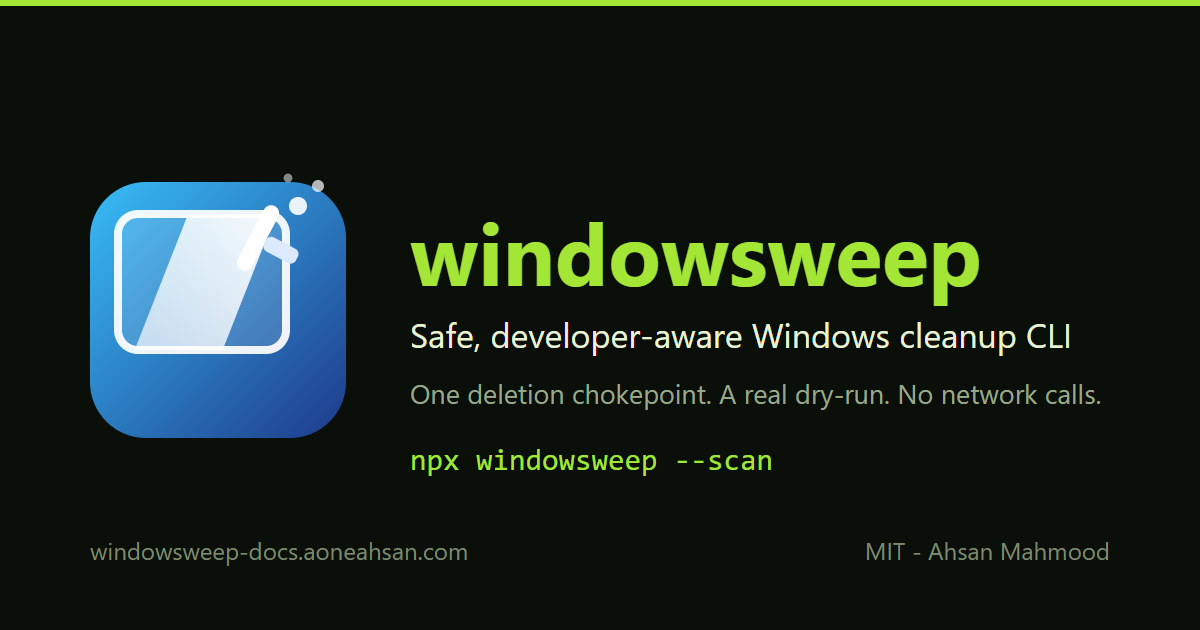
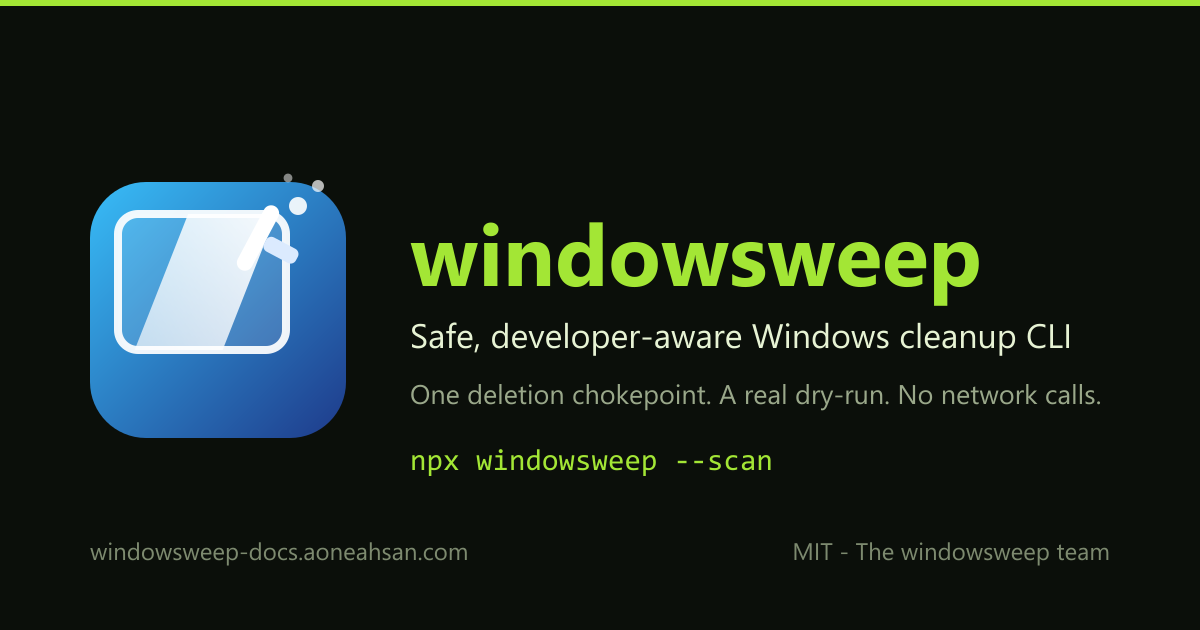
docs: the site speaks as the windowsweep team - the team page, its metadata and its card
The owner's fleet rule of 2026-09-25 (a product speaks as its team, never as
one person) and his decisions D45 and D46, applied through the story
pipeline (surface team-voice, rows 7 and 9; GATE 4 under the standing
pre-authorisation, after a fact-check PASS and zero open decisions):

- /about is the team page, re-mirrored byte for byte from
  windowsweep/docs/author.md below its front matter. It had been stale since
  row 7 was approved (b6bd940 never reached it), and it now also corrects row
  7's own "None of the three makes a network call": macleanup makes one when
  asked to check for an update.
- The footer's "Built by" column becomes "The windowsweep team" (About the
  team, Contact); the three structured-data nodes name that team as one
  Organization with the team page's URL; the author meta tags follow; the
  personal Twitter handles and both "By/Author:" byline sentences go.
- The intro's index rows, the social card and llms.txt say the same.

Kept (D45): the footer copyright, the LICENSE, the npm author field.
Gates: yarn typecheck, yarn build (no warnings, no broken links; /about has
one H1, no front-matter text).

diff --git a/docusaurus.config.ts b/docusaurus.config.ts
@@ -22,6 +22,16 @@ import type * as Preset from '@docusaurus/preset-classic';
 const SITE_URL = 'https://windowsweep-docs.aoneahsan.com';
 const TOOL_VERSION = '1.3.0';
 
+// The one agent this site's structured data names (team-voice TV-11, owner decisions D45 and
+// D46, 2026-09-25: a product speaks as its team, never as one person). Its name is the footer
+// column's title on every page and its url the team page, the same pair both llms.txt files
+// carry, so a machine reading any of them finds one entity.
+const TEAM = {
+  '@type': 'Organization',
+  name: 'The windowsweep team',
+  url: 'https://windowsweep-docs.aoneahsan.com/about',
+} as const;
+
 // Analytics are env-gated: an absent key means the provider is skipped
 // entirely, so a clone with no secrets still builds. Never inline a real key.
 const gaMeasurementId = process.env.GA_MEASUREMENT_ID?.trim();
@@ -75,19 +85,9 @@ const config: Config = {
         name: 'windowsweep Documentation',
         url: SITE_URL,
         description:
-          'Documentation for windowsweep, a Windows command-line utility that reclaims disk space by deleting only regenerable caches - package managers, build tools, browsers, editors, Windows temp and update leftovers - behind one deletion chokepoint that refuses personal folders, credentials and browser state. Author: Ahsan Mahmood.',
+          'Documentation for windowsweep, a Windows command-line utility that reclaims disk space by deleting only regenerable caches - package managers, build tools, browsers, editors, Windows temp and update leftovers - behind one deletion chokepoint that refuses personal folders, credentials and browser state.',
         inLanguage: 'en',
-        publisher: {
-          '@type': 'Person',
-          name: 'Ahsan Mahmood',
-          url: 'https://aoneahsan.com',
-          email: 'aoneahsan@gmail.com',
-          sameAs: [
-            'https://linkedin.com/in/aoneahsan',
-            'https://github.com/aoneahsan',
-            'https://www.npmjs.com/~aoneahsan',
-          ],
-        },
+        publisher: TEAM,
         license: 'https://opensource.org/licenses/MIT',
       }),
     },
@@ -102,11 +102,7 @@ const config: Config = {
         programmingLanguage: 'PowerShell',
         runtimePlatform: 'Windows PowerShell 5.1 or PowerShell 7 on Windows 10 and 11',
         license: 'https://opensource.org/licenses/MIT',
-        author: {
-          '@type': 'Person',
-          name: 'Ahsan Mahmood',
-          url: 'https://aoneahsan.com',
-        },
+        author: TEAM,
         description:
           'Windows PowerShell cleanup utility with a zero-dependency Node launcher. Prunes yarn/npm/pnpm/bun/deno/pip/NuGet/Cargo/Go caches, browser and editor caches, Docker layers, Android emulator images, Windows Update leftovers, stale node_modules and partial downloads — every deletion through one chokepoint with a declared root, an idle gate and a real dry-run.',
         keywords:
@@ -128,22 +124,18 @@ const config: Config = {
         // any surface. `isAccessibleForFree` is the same claim in another field and is
         // equally out. See docs/story/decision-log.md.
         url: 'https://www.npmjs.com/package/windowsweep',
-        author: {
-          '@type': 'Person',
-          name: 'Ahsan Mahmood',
-          url: 'https://aoneahsan.com',
-        },
+        author: TEAM,
         description:
           'Command-line disk and cache cleanup for Windows developers: a guided walkthrough, a read-only scan, a dry-run that writes nothing of yours, schema-versioned JSON reports, and one deletion chokepoint that refuses personal folders no matter what is typed.',
         softwareVersion: TOOL_VERSION,
         license: 'https://opensource.org/licenses/MIT',
       }),
     },
-    /* No `Organization` node, deliberately (removed 2026-09-13). One used to sit here naming
-       'Ahsan Mahmood' as an organisation with himself as founder - schema describing an entity
-       no page shows, the same finding the marketing site's structured data settled that day
-       (content-map row 19, ND-2: `Person`, never an invented `Organization`). The `WebSite`
-       node above already names him as publisher, with the same `sameAs` profiles. */
+    /* No separate `Organization` node: the three nodes above carry `TEAM` inline, and the footer
+       column names it on every page. Until 2026-09-25 they named a `Person`; the team-voice run
+       (content-map row 9, D45) replaced it - and an earlier node naming a person as an
+       organisation with himself as founder was removed on 2026-09-13 for describing an entity no
+       page showed. Schema that describes what no page shows is the one thing this data may not do. */
   ],
 
   i18n: {
@@ -229,27 +221,25 @@ const config: Config = {
       {
         name: 'description',
         content:
-          'Documentation for windowsweep — a Windows PowerShell CLI that reclaims disk space by pruning regenerable caches (yarn, npm, pnpm, browsers, editors, Docker, Gradle, Cypress, Playwright, Android AVDs, stale node_modules) behind one deletion chokepoint and an idle gate. By Ahsan Mahmood.',
+          'Documentation for windowsweep — a Windows PowerShell CLI that reclaims disk space by pruning regenerable caches (yarn, npm, pnpm, browsers, editors, Docker, Gradle, Cypress, Playwright, Android AVDs, stale node_modules) behind one deletion chokepoint and an idle gate.',
       },
       {
         name: 'keywords',
         content:
           'windows cleanup, free disk space windows, clear yarn cache, clear npm cache, delete node_modules, windows disk full, windows temp files cleanup, powershell cleanup script, safe disk cleanup, windows cache cleaner cli, windows update cache cleanup',
       },
-      { name: 'author', content: 'Ahsan Mahmood' },
+      { name: 'author', content: 'The windowsweep team' },
       {
         name: 'robots',
         content: 'index, follow, max-image-preview:large, max-snippet:-1, max-video-preview:-1',
       },
       { name: 'twitter:card', content: 'summary_large_image' },
-      { name: 'twitter:creator', content: '@aoneahsan' },
-      { name: 'twitter:site', content: '@aoneahsan' },
       { property: 'og:type', content: 'website' },
       { property: 'og:site_name', content: 'windowsweep Docs' },
       { property: 'og:locale', content: 'en_GB' },
       { property: 'og:image:width', content: '1200' },
       { property: 'og:image:height', content: '630' },
-      { property: 'article:author', content: 'Ahsan Mahmood' },
+      { property: 'article:author', content: 'The windowsweep team' },
     ],
     colorMode: {
       defaultMode: 'light',
@@ -327,12 +317,10 @@ const config: Config = {
           ],
         },
         {
-          title: 'Built by Ahsan Mahmood',
+          title: 'The windowsweep team',
           items: [
-            { label: 'aoneahsan.com', href: 'https://aoneahsan.com' },
-            { label: 'LinkedIn', href: 'https://linkedin.com/in/aoneahsan' },
-            { label: 'GitHub', href: 'https://github.com/aoneahsan' },
-            { label: 'npm packages', href: 'https://www.npmjs.com/~aoneahsan' },
+            { label: 'About the team', to: '/about' },
+            { label: 'Contact', href: 'https://windowsweep.aoneahsan.com/contact' },
           ],
         },
       ],

diff --git a/docs/about.md b/docs/about.md
@@ -1,18 +1,19 @@
 ---
-title: 'About the author'
-description: 'Who built windowsweep, the sibling tools, and how to support the work.'
-tags: [about, author]
+title: 'The windowsweep team'
+description: 'Who makes windowsweep, the two sibling tools for Linux and macOS, and how to support the work.'
+tags: [about, team]
 ---
-# Author
+# The windowsweep team
 
-**Ahsan Mahmood** - independent software engineer who builds small, sharp developer tools and ships them as
-open source.
+The windowsweep team makes the command-line tool and the [desktop app](./desktop.md), which drives the same engine and reimplements none of it. Both programs are open source under the MIT licence.
 
-- Web: [aoneahsan.com](https://aoneahsan.com)
-- GitHub: [github.com/aoneahsan](https://github.com/aoneahsan)
-- LinkedIn: [linkedin.com/in/aoneahsan](https://linkedin.com/in/aoneahsan)
-- npm: [npmjs.com/~aoneahsan](https://www.npmjs.com/~aoneahsan)
-- Email: [aoneahsan@gmail.com](mailto:aoneahsan@gmail.com)
+No guessed paths. A path becomes a target only once it has been seen on a real machine holding only regenerable data, and the ones still waiting are in the [candidate table](./sections.md#candidate-targets-awaiting-verification). Steam's shader cache is one of them, because the build machine has Steam and no games.
+
+- Website: [windowsweep.aoneahsan.com](https://windowsweep.aoneahsan.com)
+- Repository: [github.com/aoneahsan/windowsweep](https://github.com/aoneahsan/windowsweep)
+- Issues: [github.com/aoneahsan/windowsweep/issues](https://github.com/aoneahsan/windowsweep/issues)
+- Contact form: [windowsweep.aoneahsan.com/contact](https://windowsweep.aoneahsan.com/contact) - after signing in, so a reply has somewhere to go
+- npm: [npmjs.com/package/windowsweep](https://www.npmjs.com/package/windowsweep)
 
 ## The cleanup family
 
@@ -22,13 +23,10 @@ open source.
 | macOS | [macleanup](https://github.com/aoneahsan/macleanup) | `npx macleanup` |
 | Windows | [windowsweep](https://github.com/aoneahsan/windowsweep) | `npx windowsweep` |
 
-All three share the same stance: name every path before touching it, prune idle files instead of wiping
-caches, refuse to enter personal folders, ship a real dry-run, and make no network calls.
+All three share the same stance: name every path before touching it, prune files idle for 100 days by default, refuse to enter personal folders, and ship a real dry-run. None of the three makes a network call unless you ask one to check for an update.
 
 ## Supporting the work
 
-If windowsweep reclaimed space for you, a star on GitHub and a share with a colleague are the kindest thanks.
-You can also support the maintenance at
-[aoneahsan.com/payment](https://aoneahsan.com/payment?project-id=windowsweep&project-identifier=windowsweep).
+If windowsweep reclaimed space for you, the two things that help most are a star on GitHub and a note to a colleague who has the same problem. You can also support the maintenance at [aoneahsan.com/payment](https://aoneahsan.com/payment?project-id=windowsweep&project-identifier=windowsweep).
 
-Last Updated: 2026-09-03
+Last Updated: 2026-09-25

diff --git a/docs/intro.md b/docs/intro.md
@@ -63,16 +63,16 @@ No. The command-line tool makes no network calls at all, and self-test check [9]
 
 | Page | What it covers |
 |---|---|
-| [Author](./about.md) | Who built this, the sibling tools, how to support the work |
+| [The windowsweep team](./about.md) | Its channels, the sibling tools, how to support the work |
 | [Packages](https://github.com/aoneahsan/windowsweep/blob/main/docs/PACKAGES.md) | The dependency and manifest record (there are no dependencies) |
-| [Project status](https://github.com/aoneahsan/windowsweep/blob/main/docs/features/windowsweep-completion/00-tracker.json) | The live status record: every phase and sub-task with its state, the evidence behind it, and the rows only the author can close |
+| [Project status](https://github.com/aoneahsan/windowsweep/blob/main/docs/features/windowsweep-completion/00-tracker.json) | The live status record: every phase and sub-task with its state, the evidence behind it, and the rows only the windowsweep team can close |
 
 ## Quick contact
 
 | | |
 |---|---|
 | **Issues** | https://github.com/aoneahsan/windowsweep/issues |
-| **Author** | [Ahsan Mahmood](https://aoneahsan.com) - [aoneahsan@gmail.com](mailto:aoneahsan@gmail.com) |
+| **Author** | [The windowsweep team](./about.md) - [contact form](https://windowsweep.aoneahsan.com/contact), after signing in |
 | **Support the work** | https://aoneahsan.com/payment?project-id=windowsweep&project-identifier=windowsweep |
 
 Last Updated: 2026-09-17 - tool version 1.3.0
